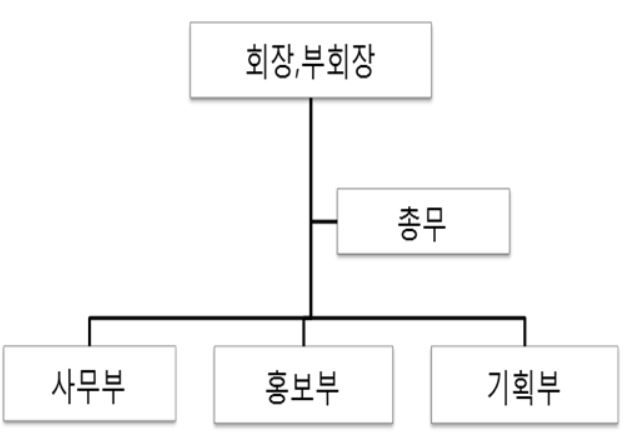
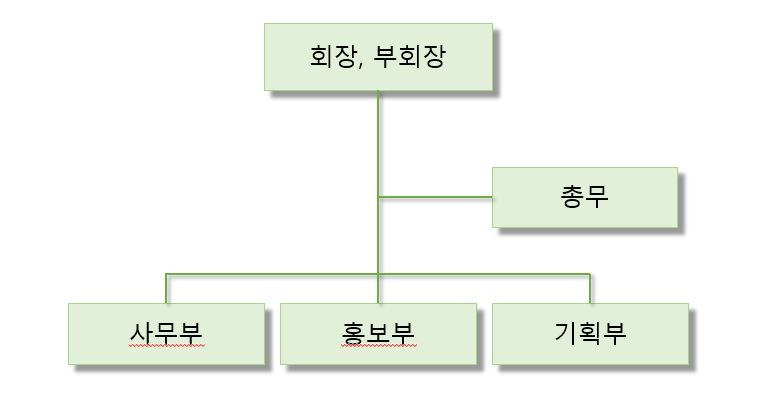
전체 페이지 폰트 변경

Changed region(s): [[0.0, 0.0291, 0.9968, 0.9879]]

diff --git a/src/components/Admin.vue b/src/components/Admin.vue
@@ -115,7 +115,7 @@ export default {
                     this.$notice({
                         type: 'error',
                         text: r.data.errMsg || ''
-                    })                    
+                    })
                 }
             })
             .catch(e=>{
@@ -138,7 +138,7 @@ export default {
                     this.$notice({
                         type: 'error',
                         text: r.data.errMsg || ''
-                    })                    
+                    })
                 }
             })
             .catch(e=>{
@@ -162,7 +162,7 @@ export default {
                     this.$notice({
                         type: 'error',
                         text: r.data.errMsg || ''
-                    })                    
+                    })
                 }
             })
             .catch(e=>{
@@ -187,7 +187,7 @@ export default {
                     this.$notice({
                         type: 'error',
                         text: r.data.errMsg || ''
-                    })                    
+                    })
                 }
             })
             .catch(e=>{
@@ -211,7 +211,7 @@ export default {
                     this.$notice({
                         type: 'error',
                         text: r.data.errMsg || ''
-                    })                    
+                    })
                 }
             })
             .catch(e=>{
@@ -225,3 +225,19 @@ export default {
     }
 }
 </script>
+<style scoped>
+@import url(//fonts.googleapis.com/earlyaccess/nanumgothic.css);
+@font-face {
+  font-family: 'NanumGothic' ;
+  src:url(//fonts.gstatic.com/ea/nanumgothic/v5/NanumGothic-Regular.eot);
+  src:url(//fonts.gstatic.com/ea/nanumgothic/v5/NanumGothic-Regular.eot?#iefix) format('embedded-opentype'),
+      url(//fonts.gstatic.com/ea/nanumgothic/v5/NanumGothic-Regular.woff2) format('woff2'),
+      url(//fonts.gstatic.com/ea/nanumgothic/v5/NanumGothic-Regular.woff) format('woff'),
+      url(//fonts.gstatic.com/ea/nanumgothic/v5/NanumGothic-Regular.ttf) format('truetype');
+  font-weight : normal;
+  font-style : normal;
+}
+div {
+ font-family: 'NanumGothic';
+}
+</style>

diff --git a/src/components/SaIntro.vue b/src/components/SaIntro.vue
@@ -24,5 +24,18 @@ export default {
 }
 </script>
 <style scoped>
-
+  @import url(//fonts.googleapis.com/earlyaccess/nanumgothic.css);
+  @font-face {
+    font-family: 'NanumGothic' ;
+    src:url(//fonts.gstatic.com/ea/nanumgothic/v5/NanumGothic-Regular.eot);
+    src:url(//fonts.gstatic.com/ea/nanumgothic/v5/NanumGothic-Regular.eot?#iefix) format('embedded-opentype'),
+        url(//fonts.gstatic.com/ea/nanumgothic/v5/NanumGothic-Regular.woff2) format('woff2'),
+        url(//fonts.gstatic.com/ea/nanumgothic/v5/NanumGothic-Regular.woff) format('woff'),
+        url(//fonts.gstatic.com/ea/nanumgothic/v5/NanumGothic-Regular.ttf) format('truetype');
+    font-weight : normal;
+    font-style : normal;
+  }
+  h1, h2, th {
+   font-family: 'NanumGothic';
+  }
 </style>

diff --git a/src/components/TimeTable.vue b/src/components/TimeTable.vue
@@ -490,4 +490,18 @@ export default {
 #isEs:hover #isEs-tooltip {
     display: block;
 }
+@import url(//fonts.googleapis.com/earlyaccess/nanumgothic.css);
+@font-face {
+  font-family: 'NanumGothic' ;
+  src:url(//fonts.gstatic.com/ea/nanumgothic/v5/NanumGothic-Regular.eot);
+  src:url(//fonts.gstatic.com/ea/nanumgothic/v5/NanumGothic-Regular.eot?#iefix) format('embedded-opentype'),
+      url(//fonts.gstatic.com/ea/nanumgothic/v5/NanumGothic-Regular.woff2) format('woff2'),
+      url(//fonts.gstatic.com/ea/nanumgothic/v5/NanumGothic-Regular.woff) format('woff'),
+      url(//fonts.gstatic.com/ea/nanumgothic/v5/NanumGothic-Regular.ttf) format('truetype');
+  font-weight : normal;
+  font-style : normal;
+}
+h2, p, h3, div {
+ font-family: 'NanumGothic';
+}
 </style>

diff --git a/src/components/RentalLog.vue b/src/components/RentalLog.vue
@@ -81,4 +81,18 @@ export default {
   margin-top: 80px;
   margin-bottom: 50px;
 }
+@import url(//fonts.googleapis.com/earlyaccess/nanumgothic.css);
+@font-face {
+  font-family: 'NanumGothic' ;
+  src:url(//fonts.gstatic.com/ea/nanumgothic/v5/NanumGothic-Regular.eot);
+  src:url(//fonts.gstatic.com/ea/nanumgothic/v5/NanumGothic-Regular.eot?#iefix) format('embedded-opentype'),
+      url(//fonts.gstatic.com/ea/nanumgothic/v5/NanumGothic-Regular.woff2) format('woff2'),
+      url(//fonts.gstatic.com/ea/nanumgothic/v5/NanumGothic-Regular.woff) format('woff'),
+      url(//fonts.gstatic.com/ea/nanumgothic/v5/NanumGothic-Regular.ttf) format('truetype');
+  font-weight : normal;
+  font-style : normal;
+}
+h3, div, thead, tbody{
+ font-family: 'NanumGothic';
+}
 </style>

diff --git a/src/components/Board.vue b/src/components/Board.vue
@@ -160,5 +160,18 @@ export default {
         display: inline-block;
     }
 }
-
+@import url(//fonts.googleapis.com/earlyaccess/nanumgothic.css);
+@font-face {
+  font-family: 'NanumGothic' ;
+  src:url(//fonts.gstatic.com/ea/nanumgothic/v5/NanumGothic-Regular.eot);
+  src:url(//fonts.gstatic.com/ea/nanumgothic/v5/NanumGothic-Regular.eot?#iefix) format('embedded-opentype'),
+      url(//fonts.gstatic.com/ea/nanumgothic/v5/NanumGothic-Regular.woff2) format('woff2'),
+      url(//fonts.gstatic.com/ea/nanumgothic/v5/NanumGothic-Regular.woff) format('woff'),
+      url(//fonts.gstatic.com/ea/nanumgothic/v5/NanumGothic-Regular.ttf) format('truetype');
+  font-weight : normal;
+  font-style : normal;
+}
+div, thead, tbody {
+ font-family: 'NanumGothic';
+}
 </style>

diff --git a/src/components/Rental.vue b/src/components/Rental.vue
@@ -418,4 +418,18 @@ export default {
 .rental-item-header {
     margin: 10px;
 }
+@import url(//fonts.googleapis.com/earlyaccess/nanumgothic.css);
+@font-face {
+  font-family: 'NanumGothic' ;
+  src:url(//fonts.gstatic.com/ea/nanumgothic/v5/NanumGothic-Regular.eot);
+  src:url(//fonts.gstatic.com/ea/nanumgothic/v5/NanumGothic-Regular.eot?#iefix) format('embedded-opentype'),
+      url(//fonts.gstatic.com/ea/nanumgothic/v5/NanumGothic-Regular.woff2) format('woff2'),
+      url(//fonts.gstatic.com/ea/nanumgothic/v5/NanumGothic-Regular.woff) format('woff'),
+      url(//fonts.gstatic.com/ea/nanumgothic/v5/NanumGothic-Regular.ttf) format('truetype');
+  font-weight : normal;
+  font-style : normal;
+}
+div, p {
+ font-family: 'NanumGothic';
+}
 </style>

diff --git a/src/components/Curriculum.vue b/src/components/Curriculum.vue
@@ -75,5 +75,18 @@ export default {
 }
 </script>
 <style scoped>
-
+@import url(//fonts.googleapis.com/earlyaccess/nanumgothic.css);
+@font-face {
+  font-family: 'NanumGothic' ;
+  src:url(//fonts.gstatic.com/ea/nanumgothic/v5/NanumGothic-Regular.eot);
+  src:url(//fonts.gstatic.com/ea/nanumgothic/v5/NanumGothic-Regular.eot?#iefix) format('embedded-opentype'),
+      url(//fonts.gstatic.com/ea/nanumgothic/v5/NanumGothic-Regular.woff2) format('woff2'),
+      url(//fonts.gstatic.com/ea/nanumgothic/v5/NanumGothic-Regular.woff) format('woff'),
+      url(//fonts.gstatic.com/ea/nanumgothic/v5/NanumGothic-Regular.ttf) format('truetype');
+  font-weight : normal;
+  font-style : normal;
+}
+h2, thead, tbody {
+ font-family: 'NanumGothic';
+}
 </style>

diff --git a/src/components/Organ.vue b/src/components/Organ.vue
@@ -24,5 +24,18 @@ export default {
 }
 </script>
 <style scoped>
-
+@import url(//fonts.googleapis.com/earlyaccess/nanumgothic.css);
+@font-face {
+  font-family: 'NanumGothic' ;
+  src:url(//fonts.gstatic.com/ea/nanumgothic/v5/NanumGothic-Regular.eot);
+  src:url(//fonts.gstatic.com/ea/nanumgothic/v5/NanumGothic-Regular.eot?#iefix) format('embedded-opentype'),
+      url(//fonts.gstatic.com/ea/nanumgothic/v5/NanumGothic-Regular.woff2) format('woff2'),
+      url(//fonts.gstatic.com/ea/nanumgothic/v5/NanumGothic-Regular.woff) format('woff'),
+      url(//fonts.gstatic.com/ea/nanumgothic/v5/NanumGothic-Regular.ttf) format('truetype');
+  font-weight : normal;
+  font-style : normal;
+}
+h1, h2, ul {
+ font-family: 'NanumGothic';
+}
 </style>

diff --git a/src/components/HelloWorld.vue b/src/components/HelloWorld.vue
@@ -158,4 +158,18 @@ a {
   font-size: 35px;
   text-shadow: #42b983;
 }
+@import url(//fonts.googleapis.com/earlyaccess/nanumgothic.css);
+@font-face {
+  font-family: 'NanumGothic' ;
+  src:url(//fonts.gstatic.com/ea/nanumgothic/v5/NanumGothic-Regular.eot);
+  src:url(//fonts.gstatic.com/ea/nanumgothic/v5/NanumGothic-Regular.eot?#iefix) format('embedded-opentype'),
+      url(//fonts.gstatic.com/ea/nanumgothic/v5/NanumGothic-Regular.woff2) format('woff2'),
+      url(//fonts.gstatic.com/ea/nanumgothic/v5/NanumGothic-Regular.woff) format('woff'),
+      url(//fonts.gstatic.com/ea/nanumgothic/v5/NanumGothic-Regular.ttf) format('truetype');
+  font-weight : normal;
+  font-style : normal;
+}
+div {
+ font-family: 'NanumGothic';
+}
 </style>

diff --git a/src/components/Completion.vue b/src/components/Completion.vue
@@ -14,5 +14,18 @@ export default {
 }
 </script>
 <style scoped>
-
+@import url(//fonts.googleapis.com/earlyaccess/nanumgothic.css);
+@font-face {
+  font-family: 'NanumGothic' ;
+  src:url(//fonts.gstatic.com/ea/nanumgothic/v5/NanumGothic-Regular.eot);
+  src:url(//fonts.gstatic.com/ea/nanumgothic/v5/NanumGothic-Regular.eot?#iefix) format('embedded-opentype'),
+      url(//fonts.gstatic.com/ea/nanumgothic/v5/NanumGothic-Regular.woff2) format('woff2'),
+      url(//fonts.gstatic.com/ea/nanumgothic/v5/NanumGothic-Regular.woff) format('woff'),
+      url(//fonts.gstatic.com/ea/nanumgothic/v5/NanumGothic-Regular.ttf) format('truetype');
+  font-weight : normal;
+  font-style : normal;
+}
+h1, ul {
+ font-family: 'NanumGothic';
+}
 </style>

diff --git a/src/components/Login.vue b/src/components/Login.vue
@@ -97,4 +97,18 @@ export default {
 </script>
 
 <style scoped>
+@import url(//fonts.googleapis.com/earlyaccess/nanumgothic.css);
+@font-face {
+  font-family: 'NanumGothic' ;
+  src:url(//fonts.gstatic.com/ea/nanumgothic/v5/NanumGothic-Regular.eot);
+  src:url(//fonts.gstatic.com/ea/nanumgothic/v5/NanumGothic-Regular.eot?#iefix) format('embedded-opentype'),
+      url(//fonts.gstatic.com/ea/nanumgothic/v5/NanumGothic-Regular.woff2) format('woff2'),
+      url(//fonts.gstatic.com/ea/nanumgothic/v5/NanumGothic-Regular.woff) format('woff'),
+      url(//fonts.gstatic.com/ea/nanumgothic/v5/NanumGothic-Regular.ttf) format('truetype');
+  font-weight : normal;
+  font-style : normal;
+}
+div {
+ font-family: 'NanumGothic';
+}
 </style>

diff --git a/src/components/MyPage.vue b/src/components/MyPage.vue
@@ -136,4 +136,18 @@ export default {
 }
 </script>
 <style>
+@import url(//fonts.googleapis.com/earlyaccess/nanumgothic.css);
+@font-face {
+  font-family: 'NanumGothic' ;
+  src:url(//fonts.gstatic.com/ea/nanumgothic/v5/NanumGothic-Regular.eot);
+  src:url(//fonts.gstatic.com/ea/nanumgothic/v5/NanumGothic-Regular.eot?#iefix) format('embedded-opentype'),
+      url(//fonts.gstatic.com/ea/nanumgothic/v5/NanumGothic-Regular.woff2) format('woff2'),
+      url(//fonts.gstatic.com/ea/nanumgothic/v5/NanumGothic-Regular.woff) format('woff'),
+      url(//fonts.gstatic.com/ea/nanumgothic/v5/NanumGothic-Regular.ttf) format('truetype');
+  font-weight : normal;
+  font-style : normal;
+}
+div {
+ font-family: 'NanumGothic';
+}
 </style>
